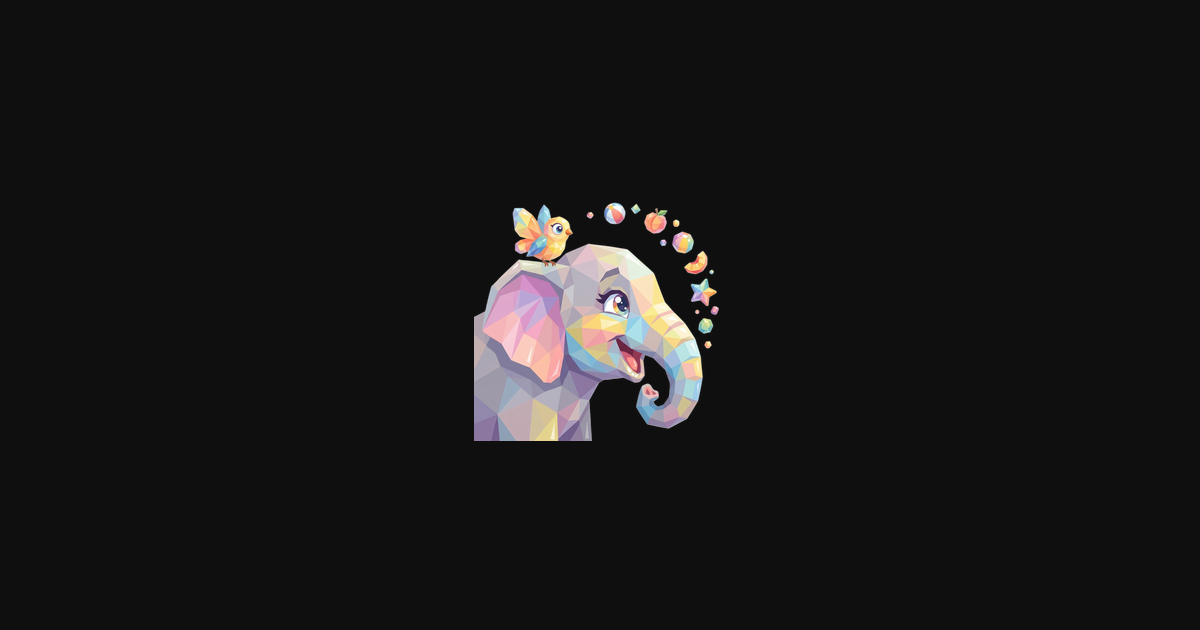
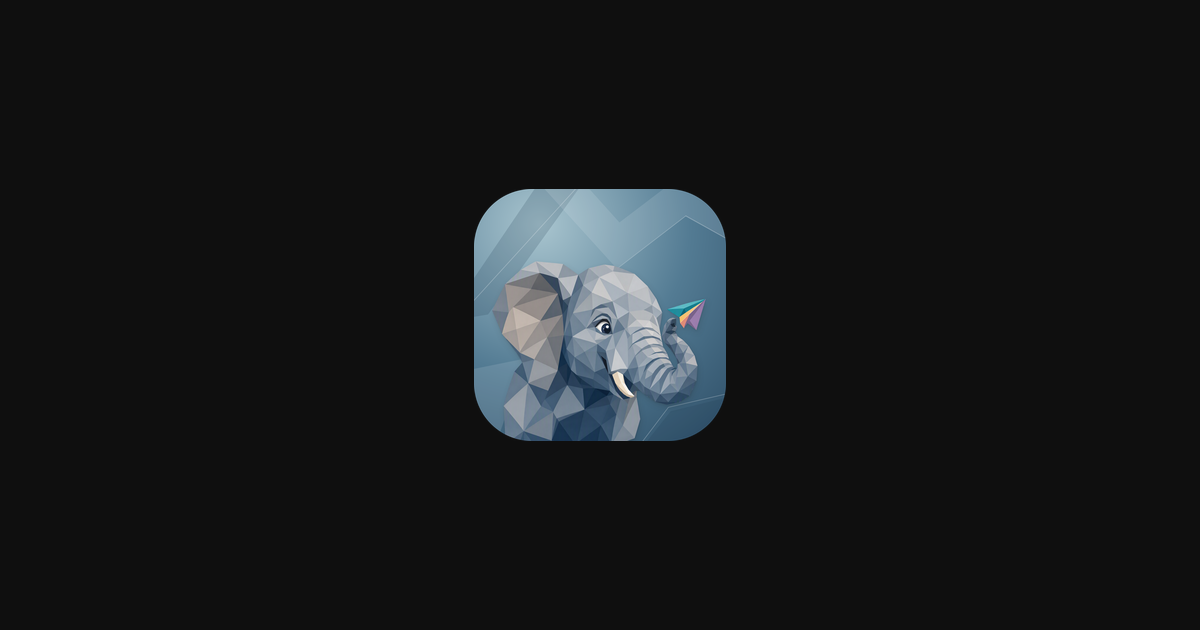
feat: adopt refined ellie identity

Changed region(s): [[0.37, 0.3016, 0.6167, 0.7238]]

diff --git a/apps/admin/src/app/login/page.tsx b/apps/admin/src/app/login/page.tsx
@@ -128,7 +128,7 @@ function LoginContent() {
 						{/* Badge content */}
 						<div className="flex flex-1 flex-col items-center px-6 pt-6 pb-5">
 							{/* Logo */}
-							<div className="h-24 w-24 overflow-hidden rounded-full bg-secondary dark:bg-background ring-1 ring-border">
+							<div className="h-24 w-24">
 								<Image
 									src="/logo-192.png"
 									alt="Ellie"

diff --git a/scripts/resize-logos.py b/scripts/resize-logos.py
@@ -1,5 +1,5 @@
 #!/usr/bin/env python3
-"""Generate derived logo assets from root logo.png (Basalt B-3 spec).
+"""Generate admin branding from separate foreground and presentation masters.
 
 Outputs to apps/admin (admin backend) only — frontend favicon is untouched.
 """
@@ -10,6 +10,8 @@ from PIL import Image
 
 ROOT = Path(__file__).resolve().parent.parent
 SOURCE = ROOT / "logo.png"
+SQUARE = ROOT / "assets" / "brand" / "icon.png"
+ROUNDED = ROOT / "assets" / "brand" / "icon-rounded.png"
 ADMIN_PUBLIC = ROOT / "apps" / "admin" / "public"
 ADMIN_APP = ROOT / "apps" / "admin" / "src" / "app"
 OG_BG = (15, 15, 15)
@@ -21,6 +23,8 @@ def resize(img: Image.Image, size: int) -> Image.Image:
 
 def main() -> None:
     img = Image.open(SOURCE).convert("RGBA")
+    square = Image.open(SQUARE).convert("RGB")
+    rounded = Image.open(ROUNDED).convert("RGBA")
 
     ADMIN_PUBLIC.mkdir(parents=True, exist_ok=True)
 
@@ -30,20 +34,18 @@ def main() -> None:
 
     # src/app/ — Next.js file-convention metadata (favicon)
     resize(img, 32).save(ADMIN_APP / "icon.png", "PNG", optimize=True)
-    resize(img, 180).save(ADMIN_APP / "apple-icon.png", "PNG", optimize=True)
+    resize(square, 180).save(ADMIN_APP / "apple-icon.png", "PNG", optimize=True)
 
     # favicon.ico
-    ico_16, ico_32 = resize(img, 16), resize(img, 32)
-    ico_16.save(
+    img.save(
         ADMIN_APP / "favicon.ico",
         format="ICO",
         sizes=[(16, 16), (32, 32)],
-        append_images=[ico_32],
     )
 
     # OG image 1200x630
     canvas = Image.new("RGB", (1200, 630), OG_BG)
-    logo = resize(img, 252)
+    logo = resize(rounded, 252)
     canvas.paste(logo, (474, 189), logo)
     canvas.save(ADMIN_APP / "opengraph-image.png", "PNG", optimize=True)
 

diff --git a/assets/brand/README.md b/assets/brand/README.md
@@ -1,0 +1,35 @@
+# Ellie brand assets
+
+A mineral-gray elephant raises its trunk toward one small folded paper airplane. Broad ear and cheek planes carry the identity; the real neck base continues below the viewfinder.
+
+## Use by surface
+
+| Surface | Asset | Treatment |
+| --- | --- | --- |
+| README header / large gallery | `assets/brand/icon-rounded.png` | Selected rounded presentation, shown at 128 px in README |
+| Admin sidebar, both states | `apps/admin/public/logo-24.png` | Transparent foreground with no additional mask. |
+| Other small admin marks | `apps/admin/public/logo-80.png` | Transparent foreground. |
+| Admin login | `apps/admin/public/logo-192.png` | Transparent UI mark shown at 96 px; the old circular wrapper is removed. This is not a PWA icon. |
+| Admin browser | `apps/admin/src/app/icon.png`, `favicon.ico` | Transparent 32 px PNG and complete 16/32 px ICO through Next.js file metadata. |
+| Admin Apple touch | `apps/admin/src/app/apple-icon.png` | Opaque square presentation at 180 px. |
+| Admin social | `apps/admin/src/app/opengraph-image.png` | Rounded presentation on the existing 1200 × 630 dark canvas. |
+| Independent forum site identity | `ForumLogo`, `general.site.logo_light`, `general.site.logo_dark`, and `apps/web/src/app/favicon.ico` | The deployed forum has its own configured wordmark/favicon. These are not the elephant application identity and are preserved. |
+
+Root `logo.png` is the canonical 2048 × 2048 transparent foreground. `assets/brand/icon.png` and `icon-rounded.png` are separate square and rounded presentation masters. Small application and browser marks use the transparent foreground without a baked-in background, glow, color filter, or extra circular mask. Larger README, native-install, and social surfaces may use the designed background according to their platform contract.
+
+## Rebuild and provenance
+
+```sh
+uv run --with pillow python scripts/resize-logos.py
+```
+
+One native image request. Azure Foundry `gpt-image-2`, native 2048 × 2048; selected study `2026-09-07-01`, finishing `01`. The owner delegated intermediate acceptance for this named five-project batch. The recorded agent inspection is not a claim that the owner reviewed the returned image bytes.
+
+The smallest protected-feature clearance is **148.5 px** against the actual 23% rounded outline. Intentional lower neck/shoulder intersections are recorded separately; no expressive feature or accessory is clipped. The selected extraction preserves every fully opaque native RGB pixel. All artwork, background, grain, and shadow layers remain separate in the Hexly study.
+
+The presentation uses **Mineral listening folds**, with base `#537b93`, light `#a9c5cf`, shade `#2c4c65`, and motif `#19374f`. Product UI colors remain independent. [source.json](source.json) records exact master hashes and the prior source identity.
+
+- [Individual before/after page](https://hexly.ai/logos/ellie)
+- [Complete generation and finishing archive](https://github.com/nocoo/hexly.ai/tree/main/artwork/logo-family/ellie/2026-09-07-01)
+- [Local static review](https://index.dev.hexly.ai/artwork/logo-family/ellie/2026-09-07-01/review.html)
+- [Shared usage SOP](https://github.com/nocoo/hexly.ai/blob/main/docs/07-logo-usage-sop.md)

diff --git a/README.md b/README.md
@@ -1,5 +1,5 @@
 <p align="center">
-  <img src="logo.png" alt="Ellie" width="128" height="128" />
+  <img src="assets/brand/icon-rounded.png" alt="Ellie" width="128" height="128" />
 </p>
 
 <h1 align="center">Ellie</h1>
